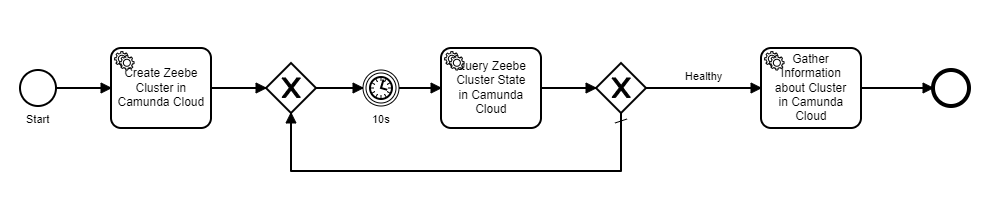
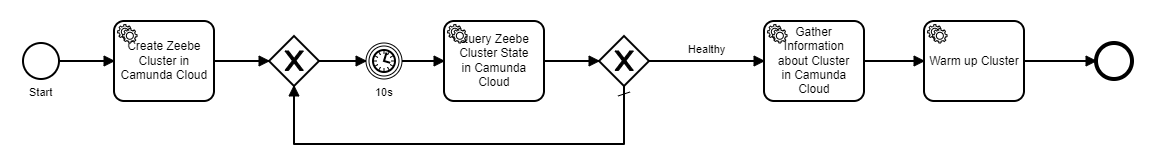
feat(core): add step to warm up a cluster

Changed region(s): [[0.0, 0.1198, 0.999, 0.6587], [0.2497, 0.8084, 0.6244, 0.8683]]

diff --git a/core/src/main/java/io/zeebe/clustertestbench/worker/WarmUpClusterWorker.java b/core/src/main/java/io/zeebe/clustertestbench/worker/WarmUpClusterWorker.java
@@ -1,0 +1,93 @@
+package io.zeebe.clustertestbench.worker;
+
+import static java.util.Objects.requireNonNull;
+
+import java.time.Duration;
+
+import org.slf4j.Logger;
+import org.slf4j.LoggerFactory;
+
+import com.fasterxml.jackson.annotation.JsonProperty;
+
+import io.zeebe.client.ZeebeClient;
+import io.zeebe.client.api.response.ActivatedJob;
+import io.zeebe.client.api.worker.JobClient;
+import io.zeebe.client.api.worker.JobHandler;
+import io.zeebe.client.impl.oauth.OAuthCredentialsProvider;
+import io.zeebe.client.impl.oauth.OAuthCredentialsProviderBuilder;
+import io.zeebe.clustertestbench.testdriver.api.CamundaCloudAuthenticationDetails;
+import io.zeebe.clustertestbench.testdriver.impl.CamundaCLoudAuthenticationDetailsImpl;
+
+public class WarmUpClusterWorker implements JobHandler {
+
+	private static final Logger logger = LoggerFactory.getLogger(WarmUpClusterWorker.class);
+
+	private static final String WORKFLOW_RESOURCE = "warmup.bpmn";
+	private static final String WORKFLOW_ID = "warmup";
+	private static final String JOB_TYPE = "task-job";
+
+	@Override
+	public void handle(JobClient client, ActivatedJob job) throws Exception {
+		final Input input = job.getVariablesAsType(Input.class);
+
+		final CamundaCloudAuthenticationDetails authenticationDetails = input.getAuthenticationDetails();
+		final OAuthCredentialsProvider cred = buildCredentialsProvider(requireNonNull(authenticationDetails));
+
+		try (final ZeebeClient zeebeClient = ZeebeClient.newClientBuilder()
+				.brokerContactPoint(authenticationDetails.getContactPoint()).credentialsProvider(cred).build()) {
+
+			logger.info("Deploying test workflow:" + WORKFLOW_ID);
+			zeebeClient.newDeployCommand().addResourceFromClasspath(WORKFLOW_RESOURCE).send().join();
+			zeebeClient.newWorker().jobType(JOB_TYPE).handler(new MoveAlongJobHandler()).timeout(Duration.ofMinutes(1))
+					.open();
+			
+			for (int i = 0; i < 10; i++) {
+
+				try {
+					zeebeClient.newCreateInstanceCommand().bpmnProcessId(WORKFLOW_ID).latestVersion().withResult()
+							.requestTimeout(Duration.ofSeconds(15)).send().join();
+				} catch (Throwable t) {
+					// repeat iteration
+					i--;
+				}
+			}
+			
+			client.newCompleteCommand(job.getKey()).send().join();
+		} 
+	}
+
+	private OAuthCredentialsProvider buildCredentialsProvider(CamundaCloudAuthenticationDetails authenticationDetails) {
+		if (authenticationDetails.getAuthorizationURL() == null) {
+			return new OAuthCredentialsProviderBuilder().audience(authenticationDetails.getAudience())
+					.clientId(authenticationDetails.getClientId()).clientSecret(authenticationDetails.getClientSecret())
+					.build();
+		} else {
+			return new OAuthCredentialsProviderBuilder()
+					.authorizationServerUrl(authenticationDetails.getAuthorizationURL())
+					.audience(authenticationDetails.getAudience()).clientId(authenticationDetails.getClientId())
+					.clientSecret(authenticationDetails.getClientSecret()).build();
+		}
+	}
+
+	private static class MoveAlongJobHandler implements JobHandler {
+		@Override
+		public void handle(final JobClient client, final ActivatedJob job) {
+			logger.info(job.toString());
+			client.newCompleteCommand(job.getKey()).send().join();
+		}
+	}
+
+	private static final class Input {
+		private CamundaCLoudAuthenticationDetailsImpl authenticationDetails;
+
+		@JsonProperty(CamundaCloudAuthenticationDetails.VARIABLE_KEY)
+		public CamundaCLoudAuthenticationDetailsImpl getAuthenticationDetails() {
+			return authenticationDetails;
+		}
+
+		@JsonProperty(CamundaCloudAuthenticationDetails.VARIABLE_KEY)
+		public void setAuthenticationDetails(CamundaCLoudAuthenticationDetailsImpl authenticationDetails) {
+			this.authenticationDetails = authenticationDetails;
+		}
+	}
+}

diff --git a/core/src/main/java/io/zeebe/clustertestbench/bootstrap/Launcher.java b/core/src/main/java/io/zeebe/clustertestbench/bootstrap/Launcher.java
@@ -39,6 +39,7 @@ import io.zeebe.clustertestbench.worker.NotifyEngineersWorker;
 import io.zeebe.clustertestbench.worker.QueryClusterStateInCamundaCloudWorker;
 import io.zeebe.clustertestbench.worker.RecordTestResultWorker;
 import io.zeebe.clustertestbench.worker.SequentialTestLauncher;
+import io.zeebe.clustertestbench.worker.WarmUpClusterWorker;
 
 public class Launcher {
 
@@ -205,6 +206,8 @@ public class Launcher {
 				new GatherInformationAboutClusterInCamundaCloudWorker(cloudApiUrl, cloudApiAuthenticationServerUrl,
 						cloudApiAudience, cloudApiClientId, cloudApiClientSecret),
 				Duration.ofSeconds(10));
+		registerWorker(client, "warm-up-cluster-job", new WarmUpClusterWorker(), Duration.ofMinutes(3));
+
 		registerWorker(client, "run-sequential-test-job", new SequentialTestLauncher(), Duration.ofMinutes(30));
 
 		try {

diff --git a/README.md b/README.md
@@ -176,7 +176,8 @@ This workflow creates a Zeebe cluster in Camnuda cloud and waits until the clust
 | Create Zeebe Cluster in Camunda Cloud | `creae-zeebe-cluster-in-camunda-cloud` / `create-zeebe-cluster-in-camunda-cloud-job` | `channelUUID`, `clusterPlanUUID`, `regionUUID`, `generationUUID` | `clusterId`, `clusterName`, `authenticationDetails` |
 | Query Zeebe Cluster State in Camunda Cloud | `query-zeebe-cluster-state-in-camunda-cloud` / `query-zeebe-cluster-state-in-camunda-cloud-job` | `clusterId`, `clusterName` | `clusterStatus` |
 | Gather Information about Cluster in Camunda Cloud | `gather-information-about-cluster-in-camunda-cloud` / `gather-information-about-cluster-in-camunda-cloud-job` | `clusterId`, `clusterName` | `operateURL` |   
-| Run Sequential Test | `run-sequential-test` / `run-sequential-test-job` | `authenticationDetails`, `testParams` | `testResult`, `testReport` 
+| Warm Up Cluster | `warm-up-cluster` / `warm-up-cluster-job` | `authenticationDetails`
+| Run Sequential Test | `run-sequential-test` / `run-sequential-test-job` | `authenticationDetails`, `testParams` | `testResult`, `testReport` |
 | Record Test Result | `record-test-result` / `record-test-result-job` |`channel`, `clusterPlan`, `region`, `generation`, `clusterId`, `clusterName`, `operateURL`, `testReport` |
 | Notify Engineers | `notify-engineers` / `notify-engineers-job` | `generation`, `clusterPlan`, `clusterName`, `operateURL`, `testReport` | | `channel` - Slack channel to post to, `testType` - test type (will be part of the error message
 | Destroy Zeebe Cluster in Camunda CLoud | `destroy-zeebe-cluster-in-camunda-cloud` / `destroy-zeebe-cluster-in-camunda-cloud-job` | `clusterId` |
